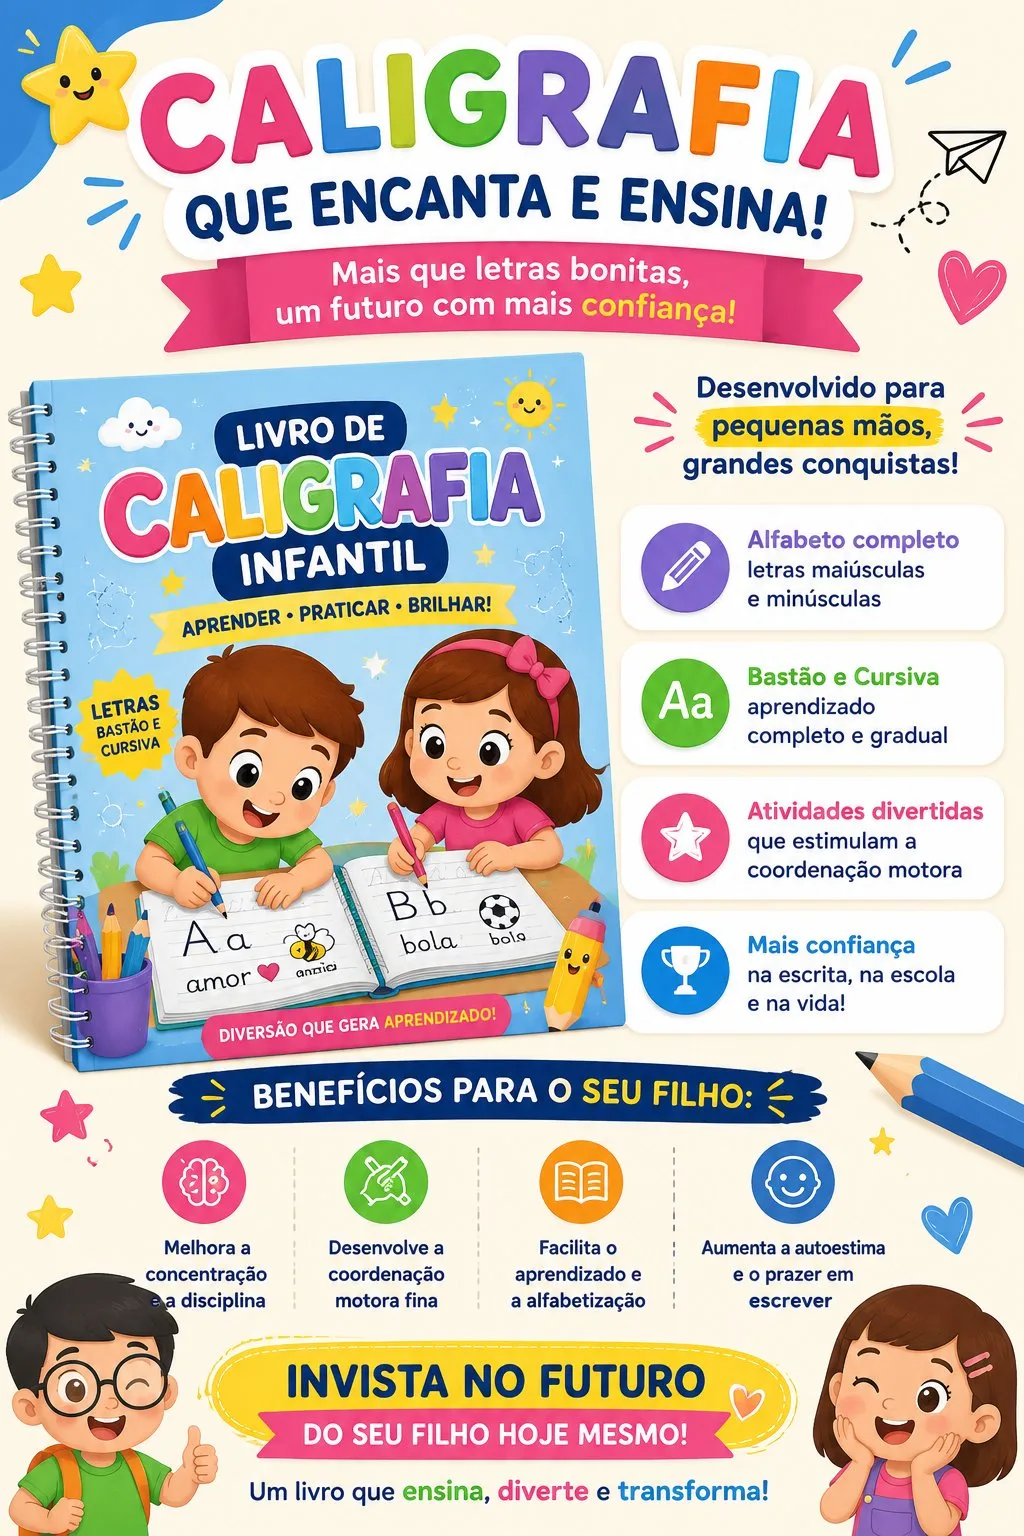
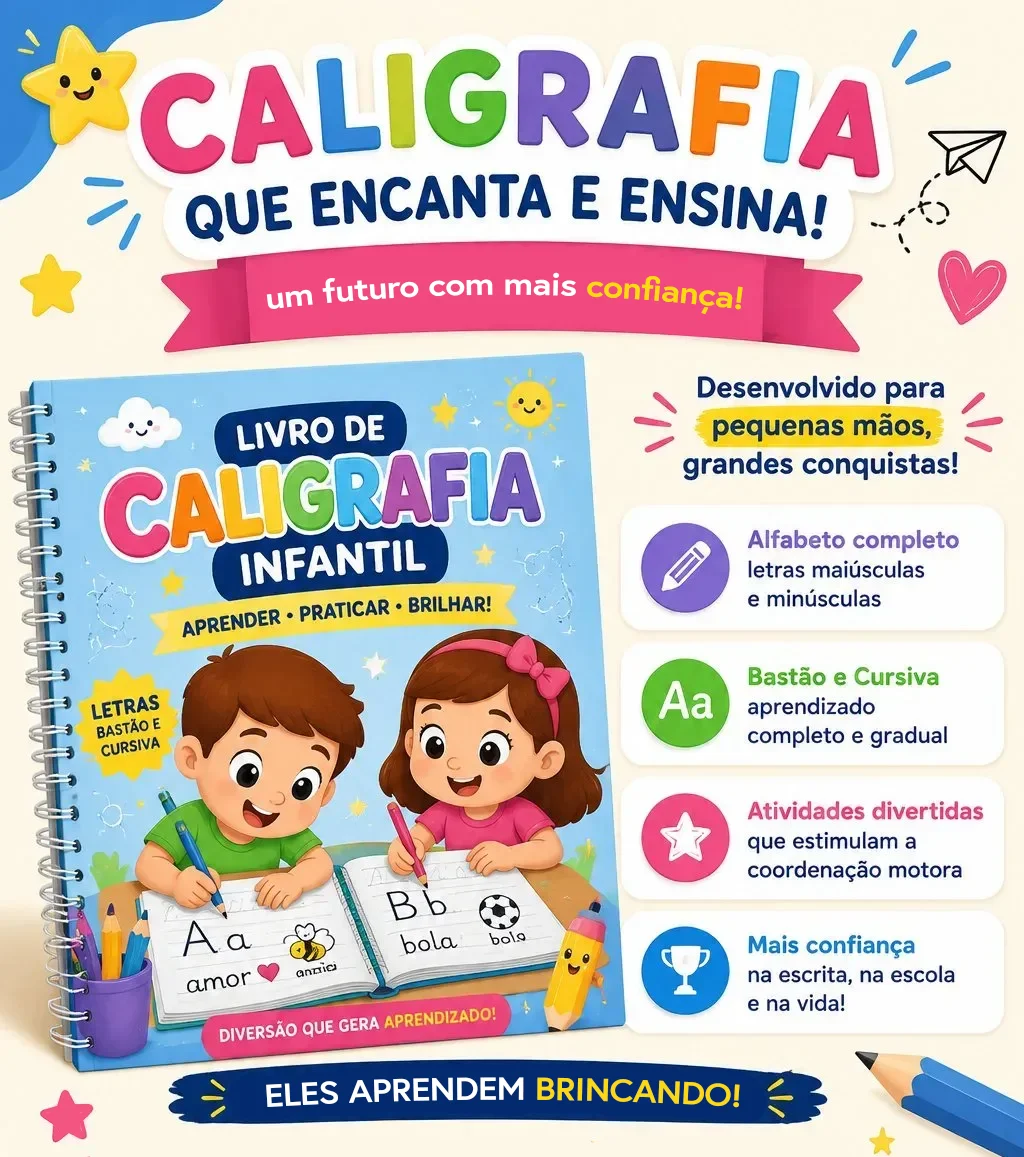
trocar imagem hero e ajustar timer pra 12 minutos

diff --git a/index.html b/index.html
@@ -579,7 +579,6 @@ footer{padding:30px 20px 40px;text-align:center;color:var(--ink-soft);font-size:
       <span class="urgency">🔥 Oferta por tempo limitado</span>
       <p class="timer-msg">Essa oferta expira em:</p>
       <div class="timer-wrap" id="timerWrap">
-        <div class="timer-box"><div class="t-num" id="tHours">00</div><div class="t-lbl">horas</div></div>
         <div class="timer-box"><div class="t-num" id="tMins">00</div><div class="t-lbl">min</div></div>
         <div class="timer-box"><div class="t-num" id="tSecs">00</div><div class="t-lbl">seg</div></div>
       </div>
@@ -641,7 +640,7 @@ document.querySelectorAll('.reveal').forEach(function(el){ io.observe(el); });
    TIMER EVERGREEN — 2h a partir da entrada do usuário
    ============================================================ */
 (function(){
-  var TIMER_DURATION = 2 * 60 * 60; // 2 horas em segundos
+  var TIMER_DURATION = 12 * 60; // 12 minutos em segundos
   var KEY = 'cali_timer_start';
   var saved = localStorage.getItem(KEY);
   if(!saved){ saved = Date.now(); localStorage.setItem(KEY, saved); }
@@ -653,7 +652,6 @@ document.querySelectorAll('.reveal').forEach(function(el){ io.observe(el); });
     var h = Math.floor(remaining / 3600);
     var m = Math.floor((remaining % 3600) / 60);
     var s = remaining % 60;
-    document.getElementById('tHours').textContent = String(h).padStart(2,'0');
     document.getElementById('tMins').textContent = String(m).padStart(2,'0');
     document.getElementById('tSecs').textContent = String(s).padStart(2,'0');
     if(remaining <= 0){